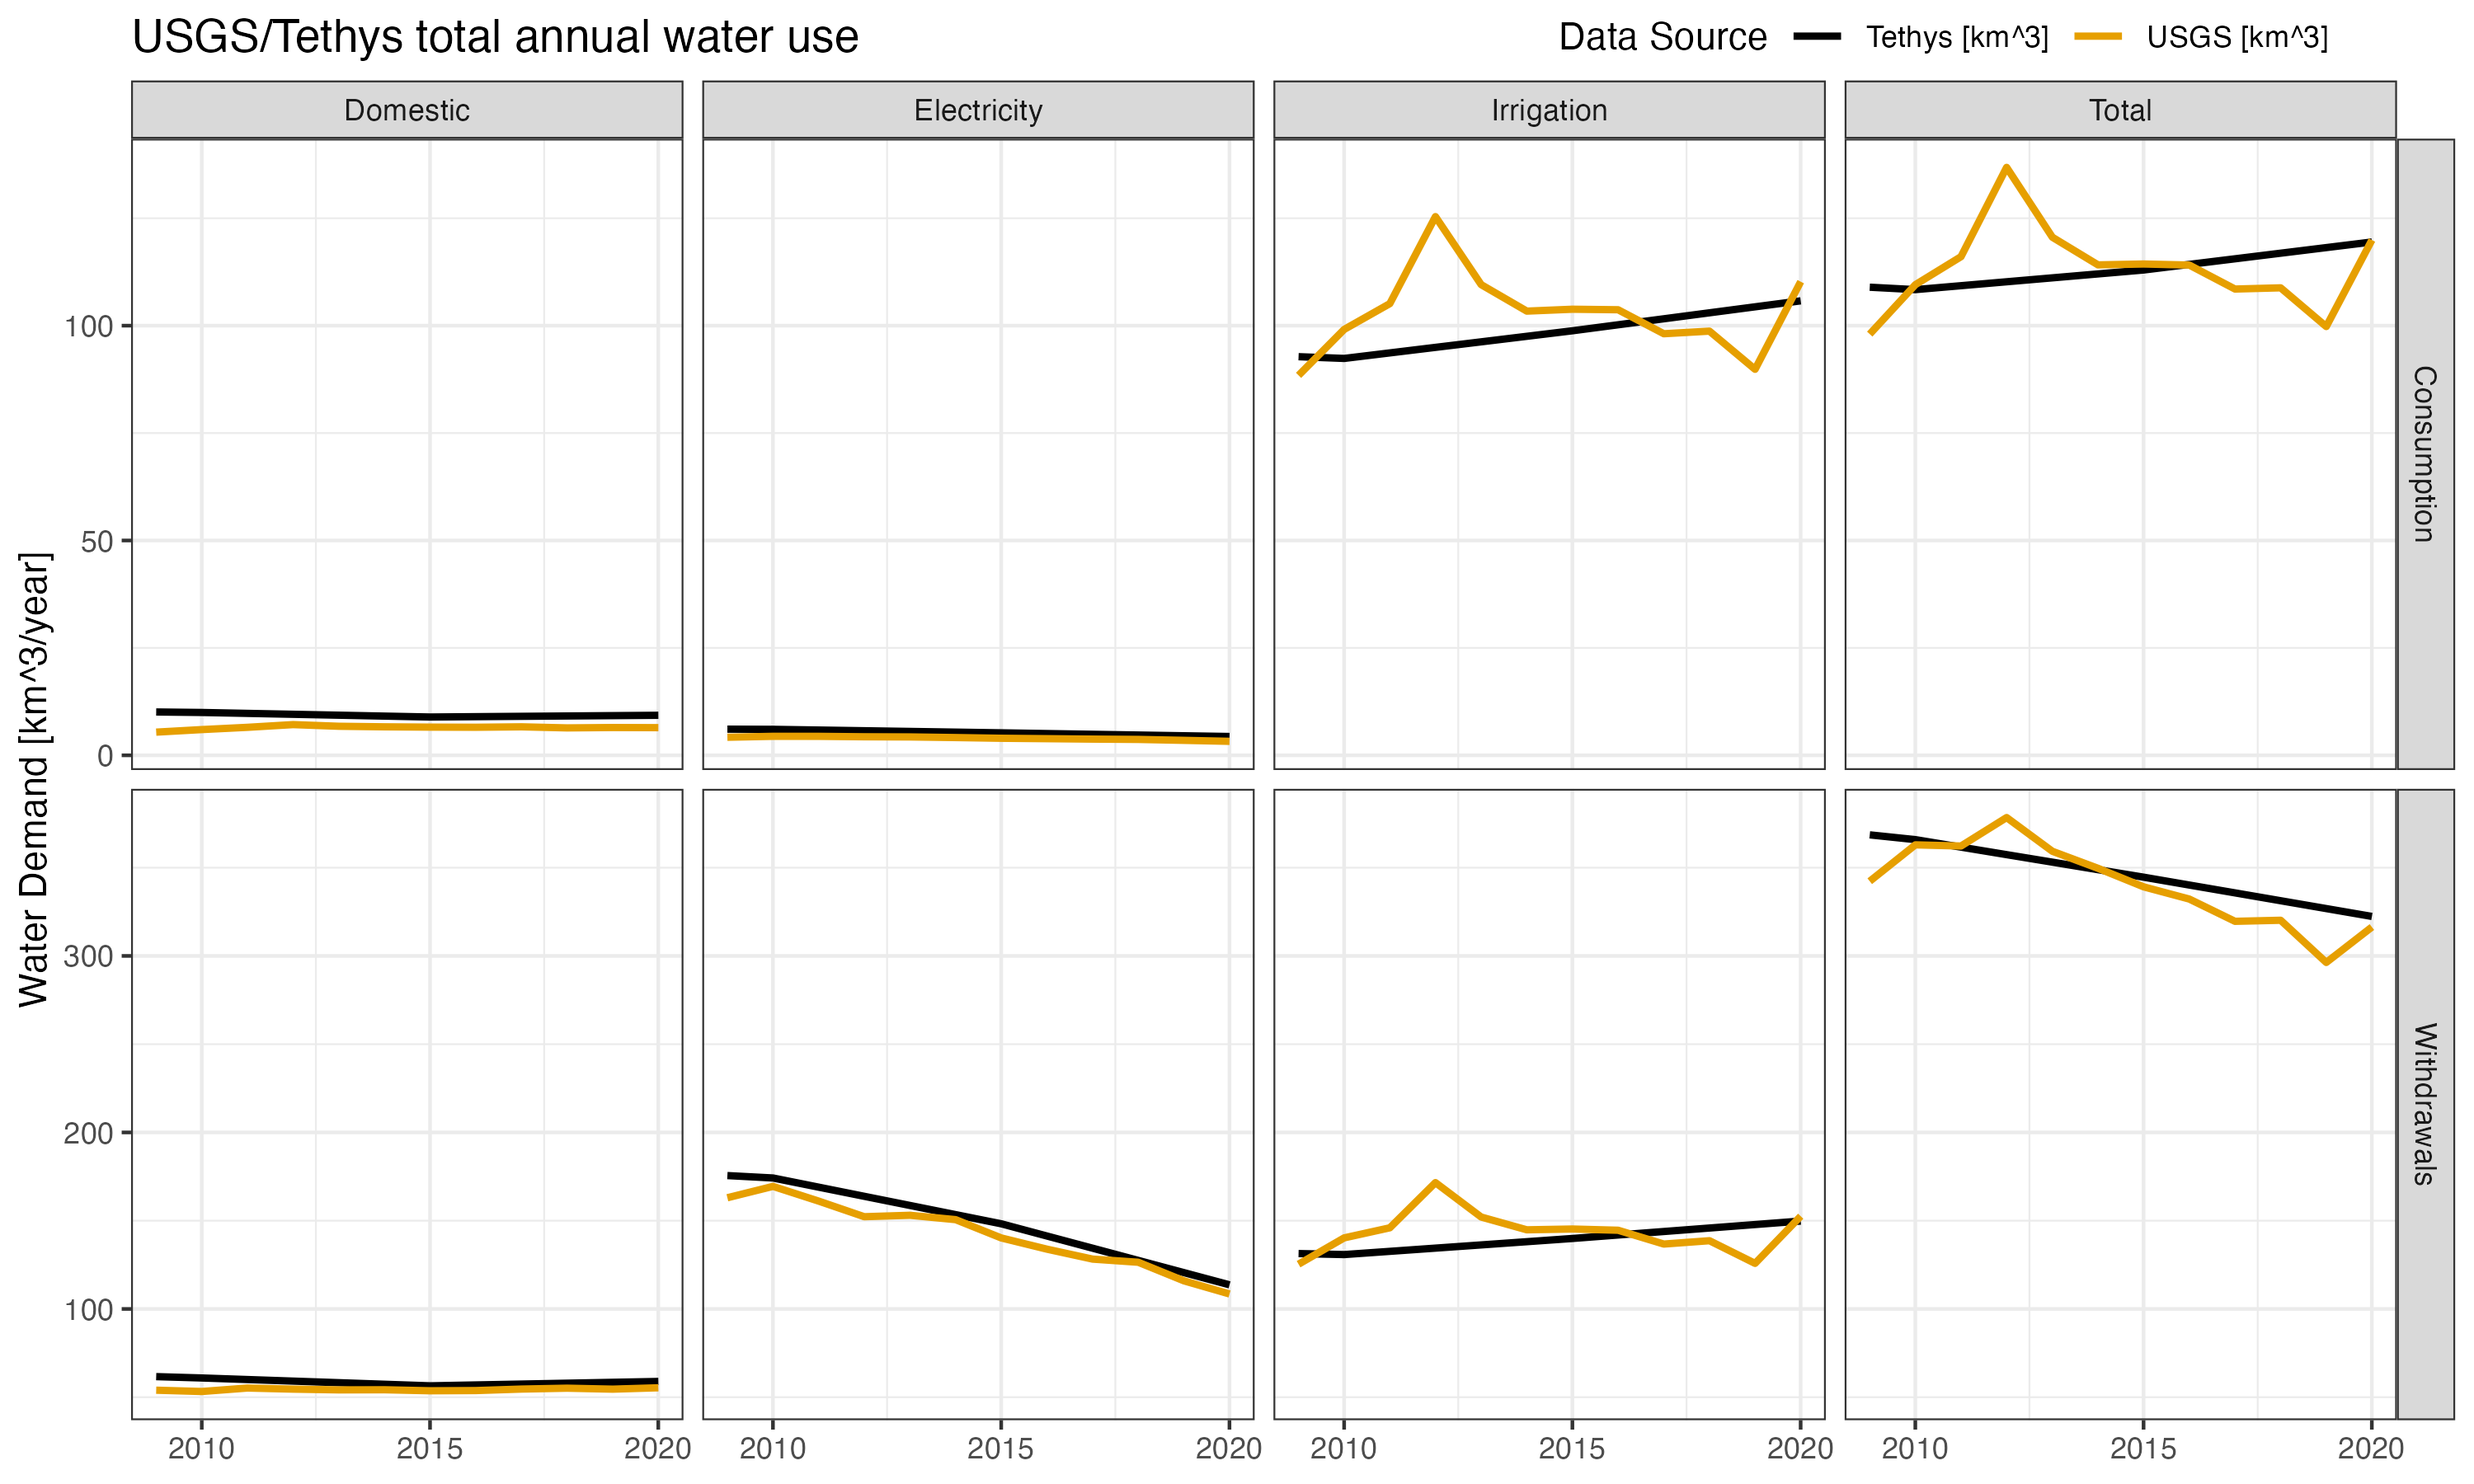
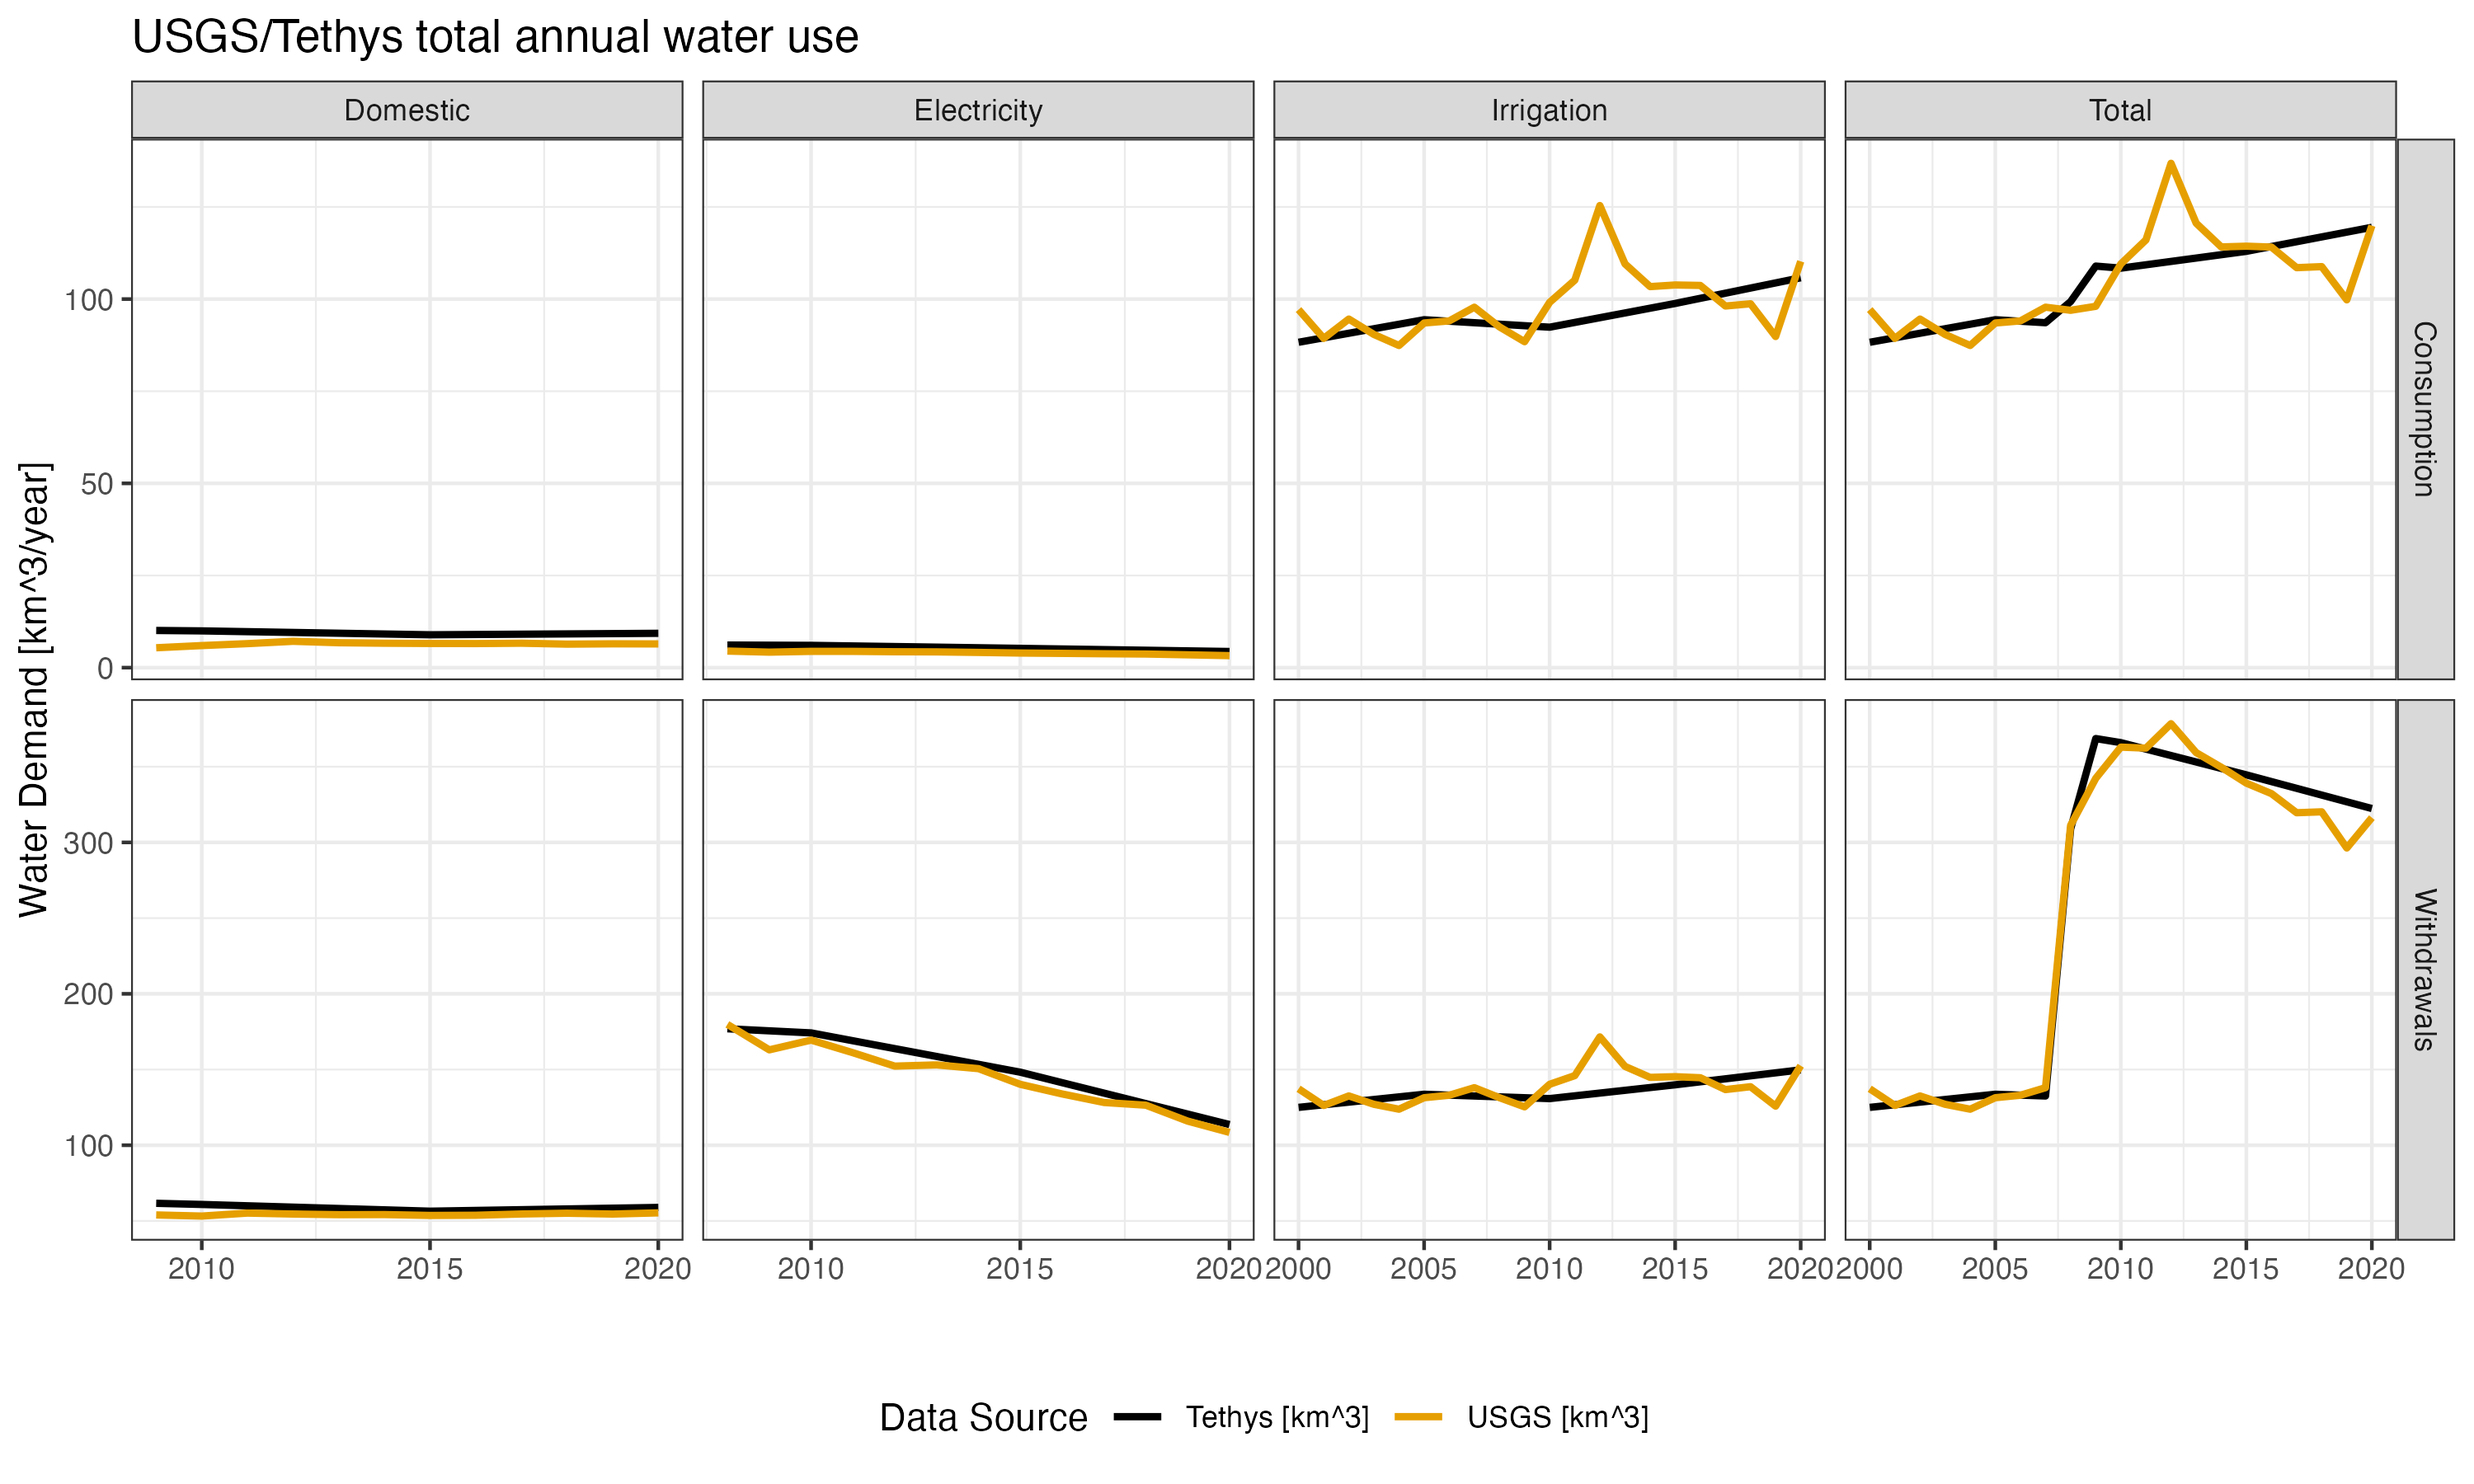
fig updates

diff --git a/diffs/diff_v3_v4.tex b/diffs/diff_v3_v4.tex
@@ -1,7 +1,7 @@
 % -----------------------------------------------------------------------------
 %DIF LATEXDIFF DIFFERENCE FILE
-%DIF DEL previous_versions/main_v3.tex   Fri May 29 15:58:30 2026
-%DIF ADD main_v4.tex                     Fri May 29 16:19:09 2026
+%DIF DEL previous_versions/main_v3.tex   Fri May 29 21:50:27 2026
+%DIF ADD main_v4.tex                     Fri May 29 21:50:27 2026
 %DIF 2c2
 %DIF < % main_v3.tex — third draft of the Tethys data paper.
 %DIF -------
@@ -158,169 +158,9 @@ We present such a dataset here, refined to 1/8$^{\circ}$ resolution across CONUS
 %DIF <  \includegraphics[width=0.85\linewidth]{flow-chart}
 \DIFdelbeginFL %DIFDELCMD < \includegraphics[width=0.85\linewidth]{flow-chart2.pdf}
 %DIFDELCMD < %%%
-\DIFdelendFL %DIF >  --- Color palette matched to the previous flow-chart artwork:
-%DIF >    Model     = muted slate-blue
-%DIF >    TethysOp  = dark olive-green
-%DIF >    Data      = rust-orange
-%DIF >    Backdrop  = light cool grey
-\DIFaddbeginFL \definecolor{modelfill}{HTML}{446680}
-\definecolor{opfill}{HTML}{4e6f4a}
-\definecolor{datafill}{HTML}{9a5a26}
-\definecolor{backdrop}{HTML}{cfcfcf}
-\definecolor{tethysbg}{HTML}{e8eee2}
-\definecolor{tethysrule}{HTML}{2f4a2a}
-\begin{tikzpicture}[
-  font=\sffamily\small,
-  every node/.style={align=center, font=\sffamily\small, text=white},
-  model/.style={
-    rectangle, draw=black, line width=0.4pt,
-    fill=modelfill,
-    rounded corners=1pt,
-    minimum width=42mm, minimum height=15mm,
-    inner sep=2pt
-  },
-  op/.style={
-    rectangle, draw=black, line width=0.4pt,
-    fill=opfill,
-    rounded corners=1pt,
-    minimum width=46mm, minimum height=15mm,
-    inner sep=2pt
-  },
-  data/.style={
-    rectangle, draw=black, line width=0.4pt,
-    fill=datafill,
-    rounded corners=4pt,
-    minimum width=42mm, minimum height=12mm,
-    inner sep=2pt
-  },
-  smalldata/.style={
-    rectangle, draw=black, line width=0.3pt,
-    fill=datafill,
-    rounded corners=3pt,
-    minimum width=36mm, minimum height=7mm,
-    inner sep=1pt
-  },
-  groupbox/.style={
-    rectangle, draw=black, line width=0.5pt, dashed,
-    rounded corners=2pt,
-    inner sep=4pt,
-    fill=none,
-    text=black
-  },
-  tethysbox/.style={
-    rectangle, draw=tethysrule, line width=1.0pt,
-    rounded corners=2pt,
-    inner sep=8mm,
-    fill=tethysbg,
-    text=black
-  },
-  arrow/.style={-{Latex[length=2.2mm]}, line width=0.5pt, color=black!75},
-  bglabel/.style={font=\sffamily\bfseries\small, text=black, align=center}
-]
-
-% =============================================================================
-% Absolute grid: x in cm, columns at -7 / 0 / +7; rows step by 2.4 cm
-% =============================================================================
-
-% Row 0 (top): scenarios | GCAM | CERF
-\node[groupbox, minimum width=46mm, minimum height=22mm] (scenariobox) at (-7, 0) {};
-\node[bglabel] at ([yshift=8mm]scenariobox.center) {\textbf{8 Scenarios}};
-\node[bglabel, anchor=center, font=\sffamily\small] at ([yshift=2mm]scenariobox.center) {2 SSPs (SSP3, SSP5)};
-\node[bglabel, anchor=center, font=\sffamily\small] at ([yshift=-2mm]scenariobox.center) {2 RCPs (4.5, 8.5)};
-\node[bglabel, anchor=center, font=\sffamily\small] at ([yshift=-6mm]scenariobox.center) {2 GCMs (cooler, hotter)};
-
-\node[model] (gcam) at (0, 0) {%
-  \textbf{GCAM-USA}\\[1pt]
-  Global, long-term,\\multi-sector dynamics
-};
-\node[model] (cerf) at (7, 0) {%
-  \textbf{CERF}\\[1pt]
-  Power plant siting
-};
-
-% Row -1: TGW Simulations  |  (empty: Tethys top edge)  |  Demeter
-\node[data, minimum height=15mm] (tgw) at (-7, -2.6) {%
-  \textbf{TGW Simulations}\\[1pt]
-  Historical and Future Climate
-};
-\node[model, minimum height=18mm] (demeter) at (7, -2.6) {%
-  \textbf{Demeter}\\[1pt]
-  Land-use downscaling\\
-  \scriptsize regional, 5-yr $\to$ 1/8$^{\circ}$ annual
-};
-
-% Row -2: Met-vars groupbox  |  Spatial Downscaling  |  Spatial proxies groupbox
-\node[op] (spatial) at (0, -5.1) {%
-  \textbf{Spatial Downscaling}\\[1pt]
-  Regional to 1/8$^{\circ}$
-};
-% Row -3: empty | Temporal Downscaling | empty
-\node[op] (temporal) at (0, -7.3) {%
-  \textbf{Temporal Downscaling}\\[1pt]
-  5-year to monthly
-};
-% Tethys wrapper around spatial + temporal
-\begin{scope}[on background layer]
-  \node[tethysbox, fit=(spatial)(temporal)] (tethys) {};
-\end{scope}
-\node[bglabel, anchor=north west, font=\sffamily\bfseries] at ([xshift=2mm,yshift=-1mm]tethys.north west) {Tethys};
-
-% Met-vars and proxies groupboxes flank Tethys
-\node[groupbox, minimum width=46mm, minimum height=33mm, anchor=center] (metbox) at (-7, -6.2) {};
-\node[bglabel] at ([yshift=13mm]metbox.center) {\textbf{Monthly Meteorological}};
-\node[bglabel, font=\sffamily\bfseries] at ([yshift=9mm]metbox.center) {\textbf{Variables}};
-\node[smalldata] (m1) at ([yshift=2mm]metbox.center) {PET, Rainfall};
-\node[smalldata] (m2) at ([yshift=-6mm]metbox.center) {Temperature};
-\node[smalldata] (m3) at ([yshift=-14mm]metbox.center) {HDD, CDD};
-
-\node[groupbox, minimum width=46mm, minimum height=42mm, anchor=center] (proxybox) at (7, -6.2) {};
-\node[bglabel] at ([yshift=18mm]proxybox.center) {\textbf{Gridded Spatial}};
-\node[bglabel, font=\sffamily\bfseries] at ([yshift=14mm]proxybox.center) {\textbf{Proxies}};
-\node[smalldata] (p1) at ([yshift=6mm]proxybox.center) {Irrigated Area};
-\node[smalldata] (p2) at ([yshift=-2mm]proxybox.center) {Power Plants};
-\node[smalldata] (p3) at ([yshift=-10mm]proxybox.center) {Population};
-\node[smalldata] (p4) at ([yshift=-18mm]proxybox.center) {Livestock};
-
-% Row -4: Tethys Dataset (output)
-\node[data, minimum width=50mm, minimum height=15mm] (out) at (0, -10.0) {%
-  \textbf{Tethys Dataset}\\[1pt]
-  Gridded multisectoral\\water demands
-};
-
-% =============================================================================
-% Arrows
-% =============================================================================
-\draw[arrow] (scenariobox.east) -- (gcam.west);
-\draw[arrow] (gcam.east) -- (cerf.west);
-\draw[arrow] (gcam.south) -- (spatial.north);
-\draw[arrow] (cerf.south) -- (demeter.north);
-% diagonal "GCAM also feeds Demeter" link
-\draw[arrow] (gcam.east) -- ++(8mm,0) |- (demeter.west);
-\draw[arrow] (scenariobox.south) -- (tgw.north);
-\draw[arrow] (tgw.south) -- (metbox.north);
-\draw[arrow] (metbox.east) -- (temporal.west);
-\draw[arrow] (proxybox.west) -- (spatial.east);
-\draw[arrow] (demeter.south) -- (proxybox.north);
-\draw[arrow] (spatial.south) -- (temporal.north);
-\draw[arrow] (temporal.south) -- (out.north);
-
-% =============================================================================
-% Legend (bottom centered)
-% =============================================================================
-\node[op, minimum width=36mm, minimum height=6mm] (legop)
-  at ([yshift=-15mm]out.south) {Tethys Operation};
-\node[model, minimum width=20mm, minimum height=6mm, right=2mm of legop] (legmodel) {Model};
-\node[data, minimum width=32mm, minimum height=6mm, right=2mm of legmodel] (legdata) {Dataset/Variable};
-
-% =============================================================================
-% Light-grey backdrop
-% =============================================================================
-\begin{scope}[on background layer]
-  \node[fill=backdrop, rounded corners=2pt, inner sep=6mm,
-        fit=(scenariobox)(cerf)(metbox)(proxybox)(out)(legop)(legdata)] {};
-\end{scope}
-
-\end{tikzpicture}
+\DIFdelendFL %DIF >  Workflow figure is built natively in TikZ and compiled separately as a
+%DIF >  standalone PDF. Source: flow-chart.tex; rebuild with `pdflatex flow-chart.tex`.
+\DIFaddbeginFL \includegraphics[width=\textwidth]{flow-chart.pdf}
 \DIFaddendFL \caption{Workflow for producing the Tethys CONUS multi-sector water-demand dataset. \DIFdelbeginFL \DIFdelFL{State- }\DIFdelendFL \DIFaddbeginFL \DIFaddFL{Eight scenarios cross two SSPs, two RCPs, }\DIFaddendFL and \DIFdelbeginFL \DIFdelFL{HUC2-basin-scale demands from GCAM-USA }\DIFdelendFL \DIFaddbeginFL \DIFaddFL{two GCM-temperature samples }\DIFaddendFL (\DIFdelbeginFL \DIFdelFL{Section ``}\DIFdelendFL \DIFaddbeginFL \DIFaddFL{cooler/hotter). Each scenario drives }\DIFaddendFL GCAM-USA \DIFaddbeginFL \DIFaddFL{(}\DIFaddendFL regional \DIFdelbeginFL \DIFdelFL{projections''}\DIFdelendFL \DIFaddbeginFL \DIFaddFL{sectoral demands at the state/basin scale}\DIFaddendFL ) \DIFdelbeginFL \DIFdelFL{are spatially downscaled using sector-specific }\DIFdelendFL \DIFaddbeginFL \DIFaddFL{and TGW-WRF dynamical-downscaling simulations. Tethys (heavy outline) carries out the two downscaling operations: spatial downscaling from regional aggregates to the 1/8$^{\circ}$ CONUS grid, and temporal downscaling of the 5-year GCAM-USA outputs to monthly resolution. Spatial downscaling uses }\DIFaddendFL gridded proxies \DIFdelbeginFL \DIFdelFL{--- }\DIFdelendFL \DIFaddbeginFL \DIFaddFL{derived from }\DIFaddendFL Demeter \DIFaddbeginFL \DIFaddFL{(}\DIFaddendFL land use\DIFdelbeginFL \DIFdelFL{(Section ``Land-use projections (Demeter}\DIFdelendFL \DIFaddbeginFL \DIFaddFL{, regional 5-year $\to$ 1/8$^{\circ}$ annual}\DIFaddendFL )\DIFdelbeginFL \DIFdelFL{'')}\DIFdelendFL , CERF \DIFdelbeginFL \DIFdelFL{power-plant locations }\DIFdelendFL (\DIFdelbeginFL \DIFdelFL{Section ``Power-plant }\DIFdelendFL \DIFaddbeginFL \DIFaddFL{projected power-plant }\DIFaddendFL siting\DIFdelbeginFL \DIFdelFL{projections (CERF}\DIFdelendFL )\DIFdelbeginFL \DIFdelFL{'')}\DIFdelendFL , Jones and O'Neill \DIFaddbeginFL \DIFaddFL{(}\DIFaddendFL SSP-consistent \DIFdelbeginFL \DIFdelFL{gridded }\DIFdelendFL population\DIFaddbeginFL \DIFaddFL{)}\DIFaddendFL , and \DIFdelbeginFL \DIFdelFL{fixed }\DIFdelendFL GLW~3 \DIFdelbeginFL \DIFdelFL{livestock distributions }\DIFdelendFL (\DIFdelbeginFL \DIFdelFL{all in Section ``Spatial downscaling''}\DIFdelendFL \DIFaddbeginFL \DIFaddFL{livestock}\DIFaddendFL )\DIFdelbeginFL \DIFdelFL{. They are temporally downscaled using }\DIFdelendFL \DIFaddbeginFL \DIFaddFL{; temporal downscaling uses }\DIFaddendFL monthly meteorological variables --- potential evapotranspiration (PET), \DIFdelbeginFL \DIFdelFL{heating- and cooling-degree }\DIFdelendFL \DIFaddbeginFL \DIFaddFL{precipitation, mean temperature, heating degree }\DIFaddendFL days (HDD\DIFdelbeginFL \DIFdelFL{/}\DIFdelendFL \DIFaddbeginFL \DIFaddFL{), cooling degree days (}\DIFaddendFL CDD), and growing-season index (GSI) --- derived from \DIFdelbeginFL \DIFdelFL{the }\DIFdelendFL TGW-WRF\DIFdelbeginFL \DIFdelFL{meteorological dataset (Section ``Meteorological forcing (TGW-WRF)''), and post-processed with USGS-anchored adjustment of per-cell renewable vs}\DIFdelendFL .\DIFdelbeginFL \DIFdelFL{\ non-renewable source shares (Section ``Renewable vs.\ non-renewable source-share post-processing'').}\DIFdelendFL }
 \label{fig:schematic}
 \end{figure}
